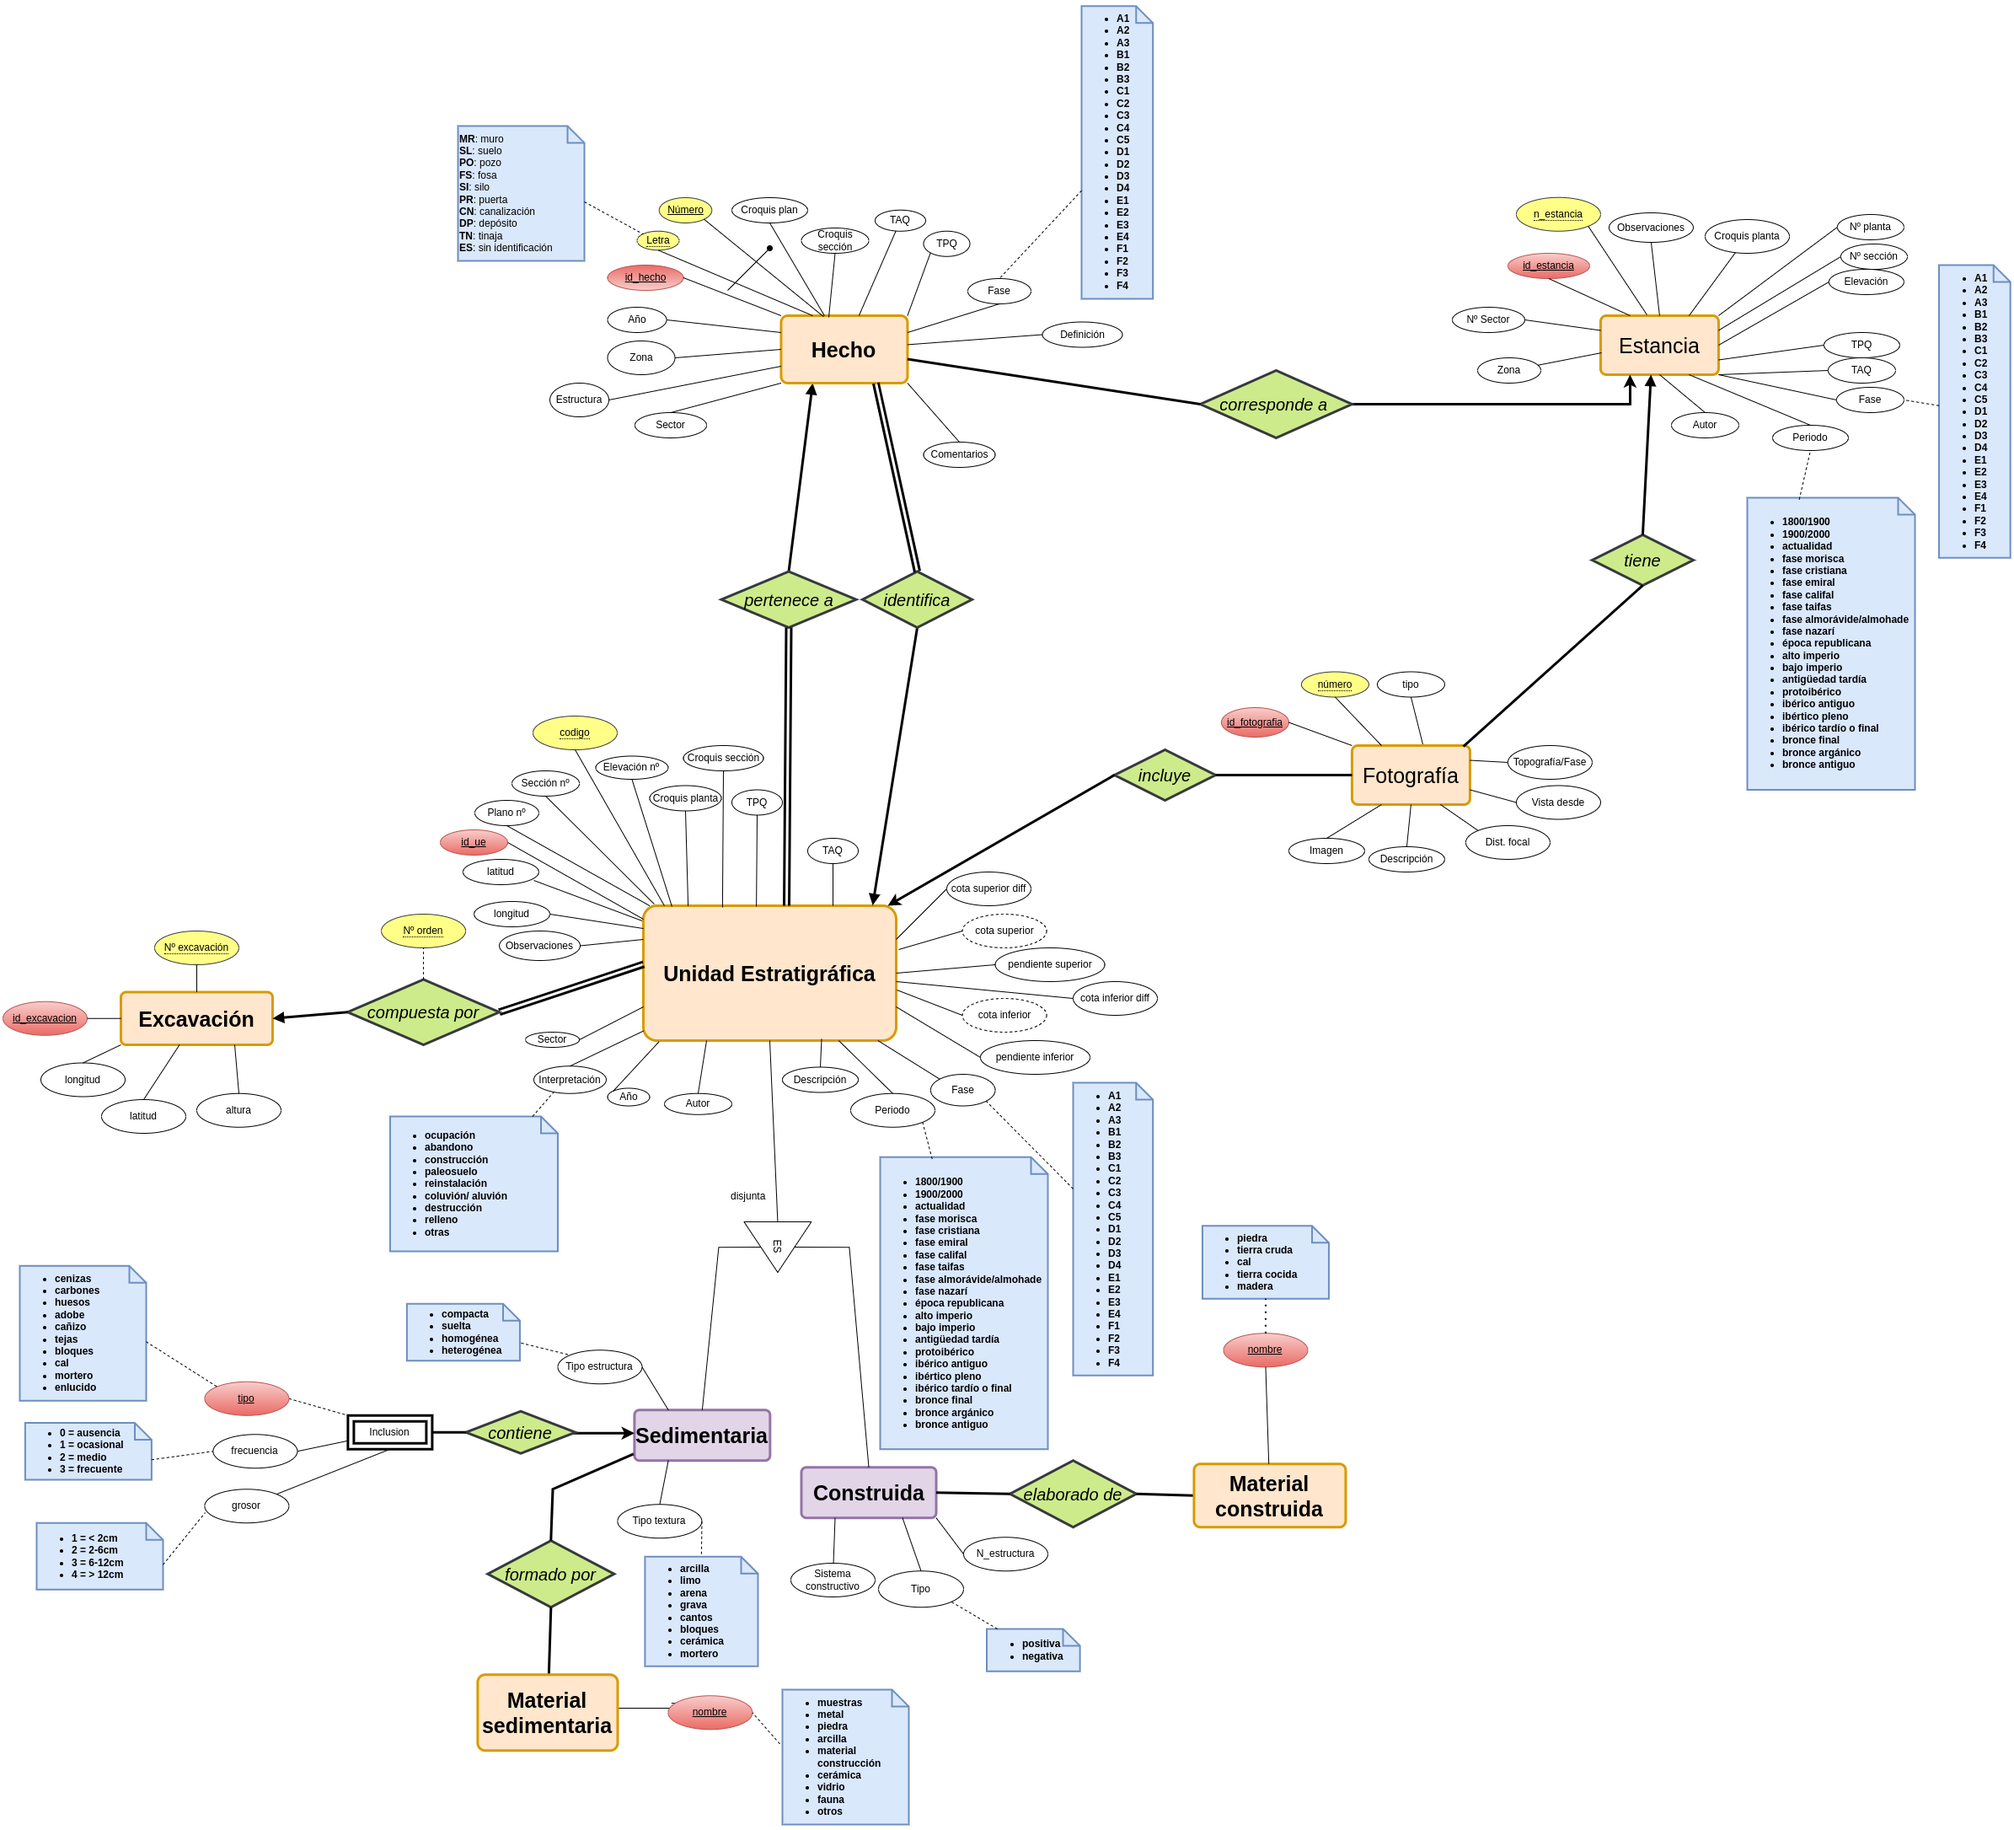
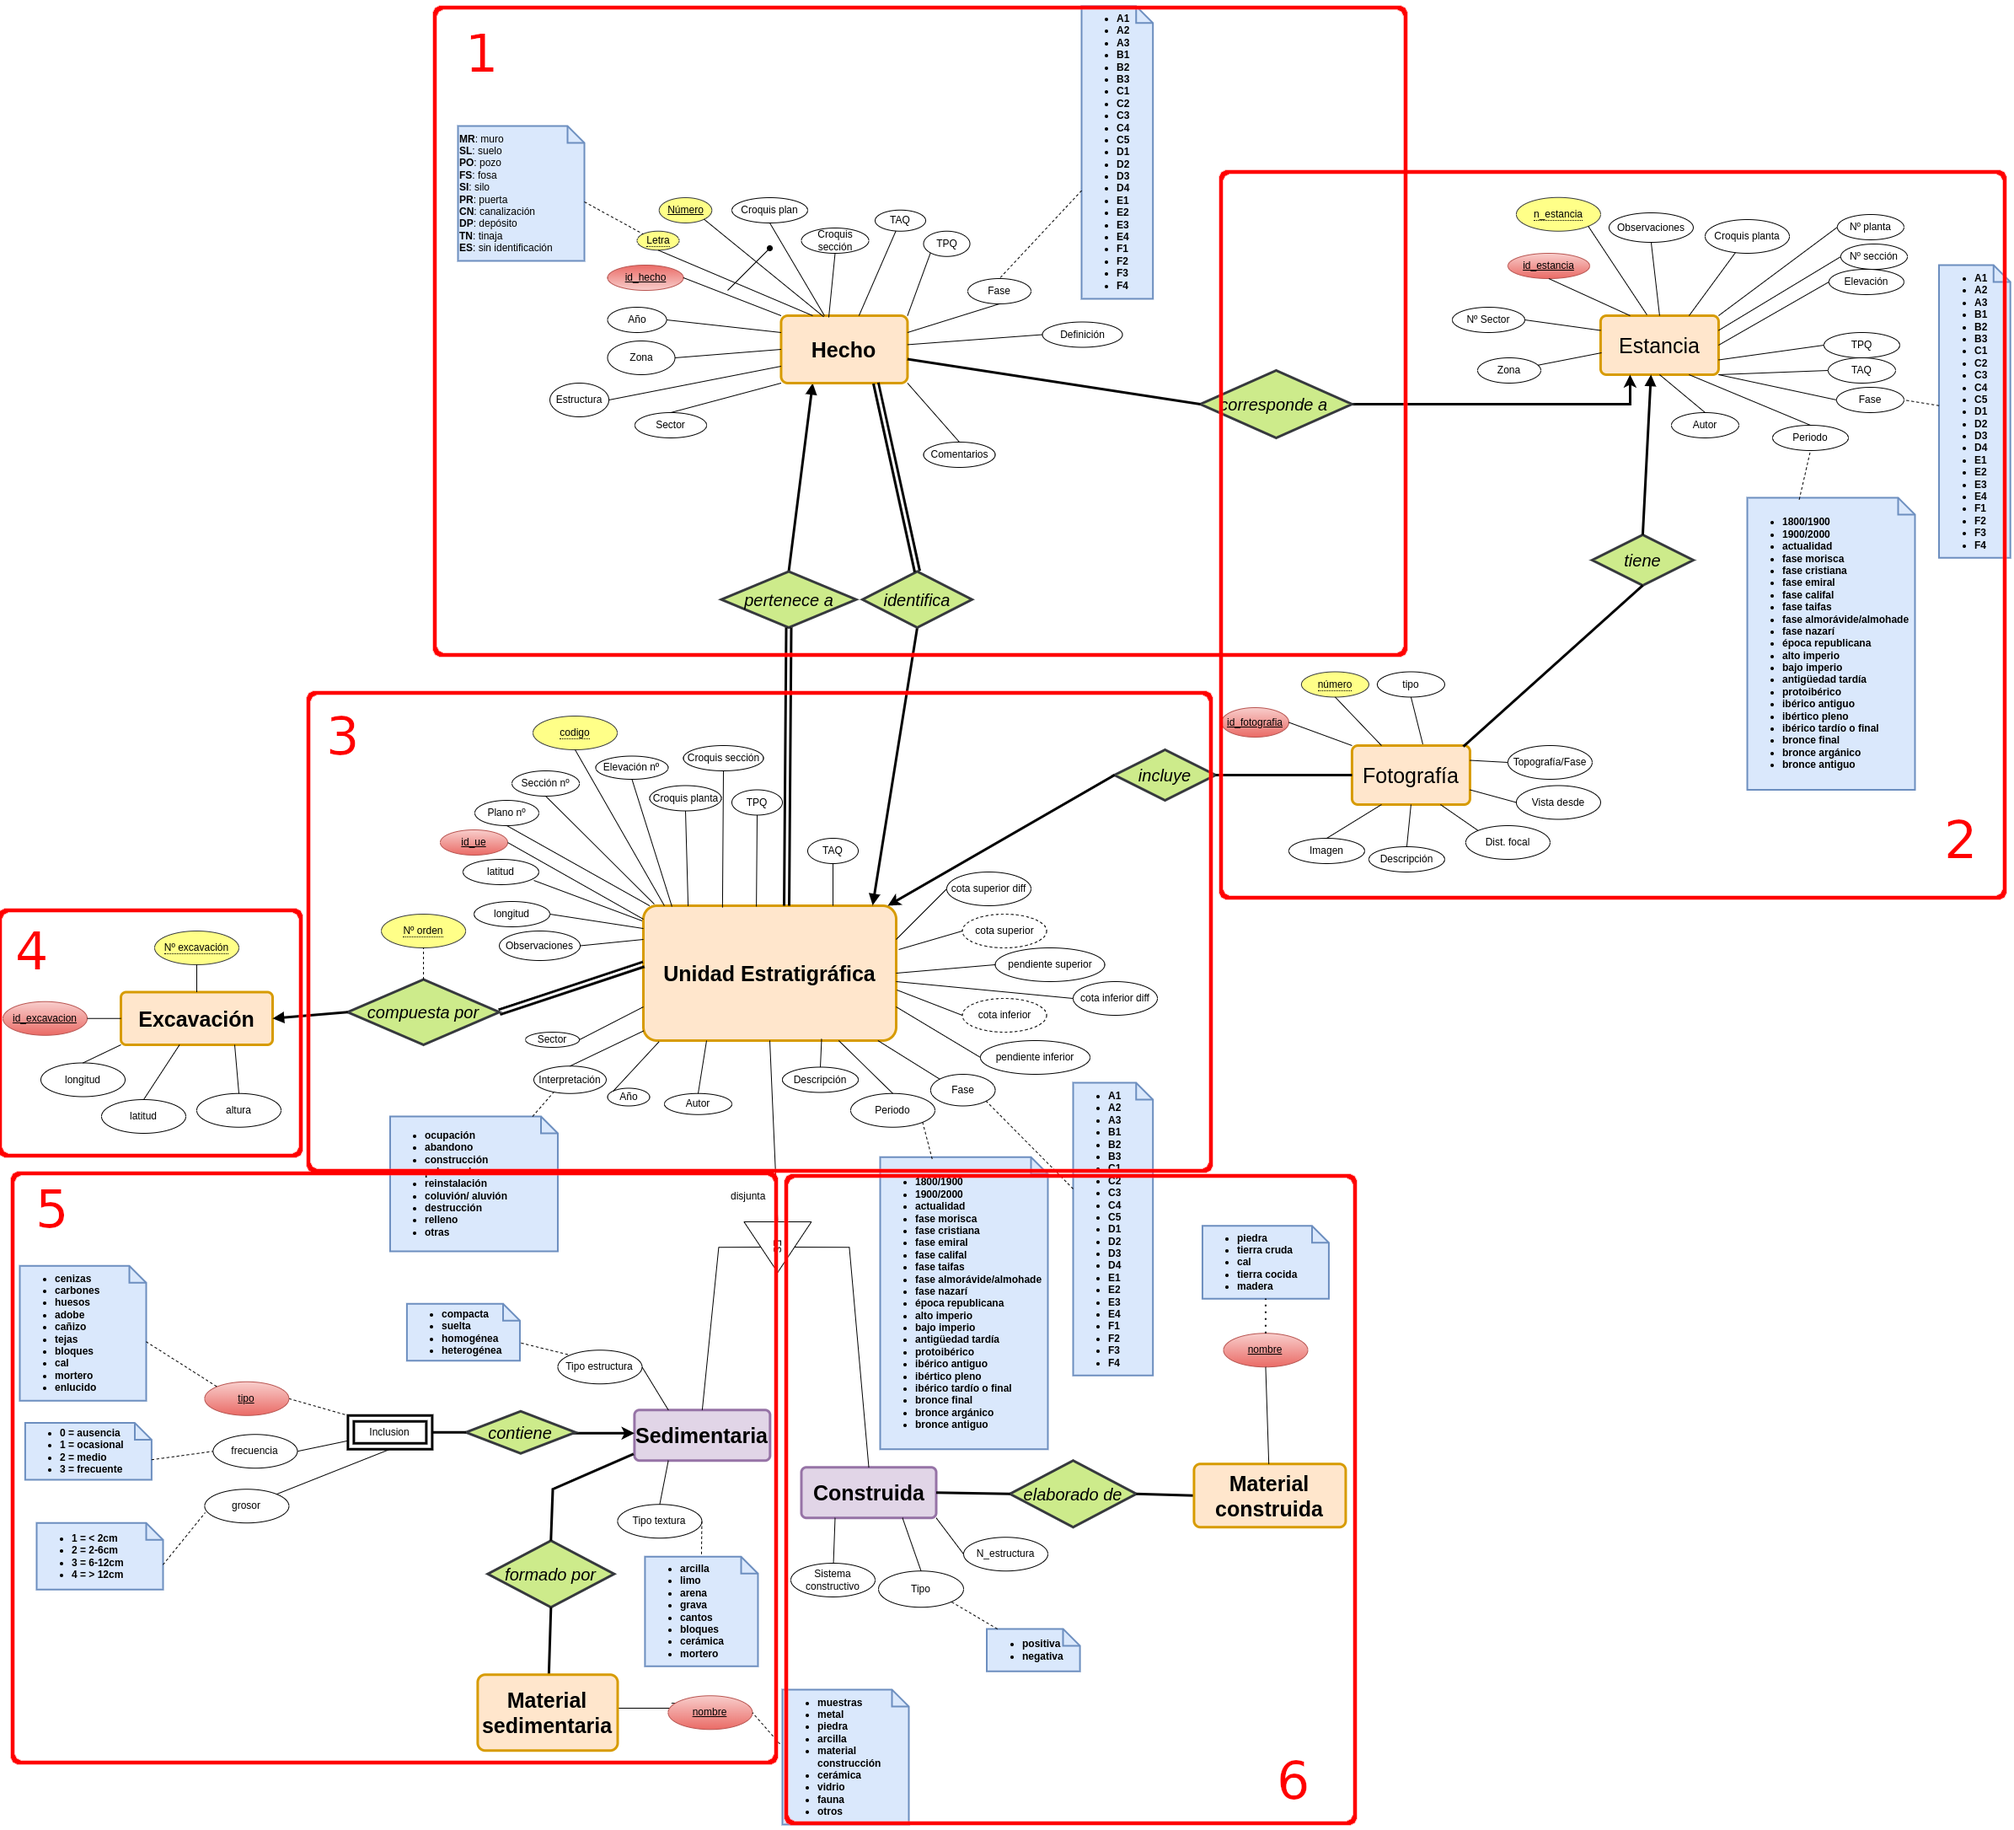
Divide the image into sections #48, #24, close #48

diff --git a/doc/secciones/07_implementacion.tex b/doc/secciones/07_implementacion.tex
@@ -302,13 +302,13 @@ Los hitos (\textbf{milestones}) del proyecto son los siguientes:
     integration (Integración Continua)}}: el software desarrollado debe integrarse con el
     posible software ya existente en el sitio web, asegurando el correcto funcionaminto
     de ambos.
-    \item \textbf{\href{https://github.com/alexespana/TFG/milestone/5}{[M6]. Log system
+    \item \textbf{\href{https://github.com/alexespana/TFG/milestone/6}{[M6]. API REST}}:
+    el diseño y posterior implementación de la API REST que permita gestionar los recursos
+    con los que trabaja la aplicación.
+    \item \textbf{\href{https://github.com/alexespana/TFG/milestone/5}{[M7]. Log system
     (Sistema de Log)}}: los eventos más importantes que ocurren en la aplicación deben ser
     grabados a través del uso de un servicio de log. Es conveniente capturar errores en un
     nivel superior de abstracción, evitando modificar código ya hecho.
-    \item \textbf{\href{https://github.com/alexespana/TFG/milestone/6}{[M7]. API REST}}:
-    el diseño y posterior implementación de la API REST que permita gestionar los recursos
-    con los que trabaja la aplicación.
     \item \textbf{\href{https://github.com/alexespana/TFG/milestone/7}{[M8]. Deployment
     (Despliegue)}}: el despliegue de la aplicación web en la nube debe realizarse utilizando
     un dominio público y un WSGI (Web Server Gateway Interface).
@@ -509,6 +509,56 @@ relaciones. Todo esto, se verá en la sección siguiente.
             \label{fig:e-rmodel}
         \end{figure}
 
+    Por cuestiones de comodidad, se ha dividido la imagen en secciones que se pueden ver
+    ampliadas en las páginas siguientes. Si se desea ir directamente a una sección, pulse
+    sobre la sección deseada: sección 1 (\textbf{\ref{fig:e-rmodel1}}), sección 2
+    (\textbf{\ref{fig:e-rmodel2}}), sección 3 (\textbf{\ref{fig:e-rmodel3}}), sección 4
+    (\textbf{\ref{fig:e-rmodel4}}), sección 5 (\textbf{\ref{fig:e-rmodel5}}) y sección 6
+    (\textbf{\ref{fig:e-rmodel6}}).
+
+        \begin{figure}[H]
+            \centering
+            \includegraphics[scale=0.40]{imagenes/E-R1.png}
+            \caption{Modelo E/R: sección 1}
+            \label{fig:e-rmodel1}
+        \end{figure}
+
+        \begin{figure}[H]
+            \centering
+            \includegraphics[scale=0.40]{imagenes/E-R2.png}
+            \caption{Modelo E/R: sección 2}
+            \label{fig:e-rmodel2}
+        \end{figure}
+
+        \begin{figure}[H]
+            \centering
+            \includegraphics[scale=0.32]{imagenes/E-R3.png}
+            \caption{Modelo E/R: sección 3}
+            \label{fig:e-rmodel3}
+        \end{figure}
+
+        \begin{figure}[H]
+            \centering
+            \includegraphics{imagenes/E-R4.png}
+            \caption{Modelo E/R: sección 4}
+            \label{fig:e-rmodel4}
+        \end{figure}
+
+        \begin{figure}[H]
+            \centering
+            \includegraphics[scale=0.35]{imagenes/E-R5.png}
+            \caption{Modelo E/R: sección 5}
+            \label{fig:e-rmodel5}
+        \end{figure}
+
+        \begin{figure}[H]
+            \centering
+            \includegraphics[scale=0.35]{imagenes/E-R6.png}
+            \caption{Modelo E/R: sección 6}
+            \label{fig:e-rmodel6}
+        \end{figure}
+
+
     Vamos a comenzar justificando las elecciones más importantes que se han ido tomando
     sobre el modelo, para ello seguiré el siguiente orden: \textbf{entidades fuertes},
     \textbf{herencia}, \textbf{entidades débiles} y \textbf{relaciones}.\\
@@ -701,19 +751,19 @@ relaciones. Todo esto, se verá en la sección siguiente.
     excavación existirá un método str que devolvería el \textbf{n\_excavacion},
     quedando el modelo de la siguiente forma:
 
-    % DESCOMENTAR
-    \begin{minted}[mathescape, linenos,numbersep=5pt,bgcolor=lightgray,gobble=2,
-                   frame=lines,fontsize=\footnotesize,framesep=2mm]{python}
-    class Excavacion(models.Model):
-        n_excavacion = models.PositiveIntegerField(unique=True, 
-                        verbose_name='Número de excavación')
-        latitud = models.FloatField()
-        longitud = models.FloatField()
-        altura = models.PositiveSmallIntegerField()
+    % % DESCOMENTAR
+    % \begin{minted}[mathescape, linenos,numbersep=5pt,bgcolor=lightgray,gobble=2,
+    %                frame=lines,fontsize=\footnotesize,framesep=2mm]{python}
+    % class Excavacion(models.Model):
+    %     n_excavacion = models.PositiveIntegerField(unique=True, 
+    %                     verbose_name='Número de excavación')
+    %     latitud = models.FloatField()
+    %     longitud = models.FloatField()
+    %     altura = models.PositiveSmallIntegerField()
 
-        def __str__(self):
-            return str(self.n_excavacion)
-    \end{minted}
+    %     def __str__(self):
+    %         return str(self.n_excavacion)
+    % \end{minted}
 
     Si nos fijamos, vemos que es necesario que esta función devuelva un string, por esta
     razón se usa la función str en el return. Además, Django nos proporciona \textbf{gran
@@ -746,15 +796,15 @@ relaciones. Todo esto, se verá en la sección siguiente.
     \textbf{Excavación} mostrado anteriormente el campo del número de excavación es
     candidate key:
     
-    % DESCOMENTAR
-    \begin{minted}[mathescape, linenos,numbersep=5pt,bgcolor=lightgray,gobble=2,
-                   frame=lines,fontsize=\footnotesize,framesep=2mm]{python}
-    class Excavacion(models.Model):
-        n_excavacion = models.PositiveIntegerField(unique=True, 
-                        verbose_name='Número de excavación')
-        .
-        .
-    \end{minted}
+    % % DESCOMENTAR
+    % \begin{minted}[mathescape, linenos,numbersep=5pt,bgcolor=lightgray,gobble=2,
+    %                frame=lines,fontsize=\footnotesize,framesep=2mm]{python}
+    % class Excavacion(models.Model):
+    %     n_excavacion = models.PositiveIntegerField(unique=True, 
+    %                     verbose_name='Número de excavación')
+    %     .
+    %     .
+    % \end{minted}
 
     ¿Cómo se representaría una clave candidata compuesta? En Django, esto se puede hacer de
     dos formas posibles:
@@ -765,17 +815,17 @@ relaciones. Todo esto, se verá en la sección siguiente.
         únicos. Vamos a hacer el ejemplo con el modelo Hecho, ya que es el único que tiene
         una clave candidata compuesta:
         
-    % DESCOMENTAR
-    \begin{minted}[linenos,numbersep=5pt,bgcolor=lightgray,gobble=2,
-        frame=lines,fontsize=\footnotesize,framesep=2mm]{python}
-    class Excavacion(models.Model):
-        letra = models.CharField(max_length=2, choices=LETRA_CHOICES)
-        numero = models.CharField(max_length=6)    
-        .
-        .
-        class Meta:
-            unique_together = ('letra', 'numero',)
-    \end{minted}
+    % % DESCOMENTAR
+    % \begin{minted}[linenos,numbersep=5pt,bgcolor=lightgray,gobble=2,
+    %     frame=lines,fontsize=\footnotesize,framesep=2mm]{python}
+    % class Excavacion(models.Model):
+    %     letra = models.CharField(max_length=2, choices=LETRA_CHOICES)
+    %     numero = models.CharField(max_length=6)    
+    %     .
+    %     .
+    %     class Meta:
+    %         unique_together = ('letra', 'numero',)
+    % \end{minted}
 
         \item La forma anterior, sin embargo, no es del todo aconsejable por django ya
         que sugiere utilizar \textbf{UniqueConstraint} con la opción \textbf{constraint},
@@ -783,20 +833,20 @@ relaciones. Todo esto, se verá en la sección siguiente.
         estar deprecated en un futuro. Con esta nueva forma, la clase de metadatos
         del modelo quedaría así:
         
-    % DESCOMENTAR
-    \begin{minted}[linenos,numbersep=5pt,bgcolor=lightgray,gobble=2,
-        frame=lines,fontsize=\footnotesize,framesep=2mm]{python}
-    class Excavacion(models.Model):
-        letra = models.CharField(max_length=2, choices=LETRA_CHOICES)
-        numero = models.CharField(max_length=6)    
-        .
-        .
-        class Meta:
-            constraints = [
-                models.UniqueConstraint(fields=['letra', 'numero'], 
-                                        name='fact_constraint')                                                  
-            ]
-    \end{minted}
+    % % DESCOMENTAR
+    % \begin{minted}[linenos,numbersep=5pt,bgcolor=lightgray,gobble=2,
+    %     frame=lines,fontsize=\footnotesize,framesep=2mm]{python}
+    % class Excavacion(models.Model):
+    %     letra = models.CharField(max_length=2, choices=LETRA_CHOICES)
+    %     numero = models.CharField(max_length=6)    
+    %     .
+    %     .
+    %     class Meta:
+    %         constraints = [
+    %             models.UniqueConstraint(fields=['letra', 'numero'], 
+    %                                     name='fact_constraint')                                                  
+    %         ]
+    % \end{minted}
 
     Dicha restricción tendrá el nombre de \textbf{fact\underline{ }constraint}.
     \end{enumerate}

diff --git a/doc/secciones/06_diseño.tex b/doc/secciones/06_diseño.tex
@@ -181,7 +181,8 @@ En la siguiente tabla, se realiza una breve comparación entre ambos tipos:
 Analizando la naturaleza de nuestro problema, observamos que existen elementos bien
 distinguidos en una excavación, como son las \textbf{unidades estratigráficas}, los 
 \textbf{hechos}, las \textbf{estancias}, los \textbf{materiales} que se encuentran formando
-los hallazgos,....todo ello englobado dentro de las \textbf{excavaciones} y relacionados
-unos con otros. Teniendo esto en cuenta, deberemos definir entidades y por tanto, es fácil
-deducir que necesitaremos hacer uso de un sistema de almacenamiento que cumpla con el esquema
-\textbf{entidad-relación}, es decir, de una \textbf{base de datos relacional o SQL}.
+los hallazgos,....todo ello englobado dentro de las \textbf{excavaciones}. Teniendo esto en
+cuenta, habrá datos relacionados entre sí en la aplicación, siendo una de las razones
+principales para el uso de una \textbf{base de datos relacional o SQL}. Además, este modelo
+es el más utilizado en la actualidad y ninguno de los motivos para el uso de noSQL se da
+este proyecto.

diff --git a/doc/proyecto.tex b/doc/proyecto.tex
@@ -62,8 +62,8 @@
 
 % Uso del paquete minted para la inserción de código en
 % distintos lenguajes de programación
-% DESCOMENTAR
-\usepackage{minted}
+% % DESCOMENTAR
+% \usepackage{minted}
 
 \begin{document}
 
